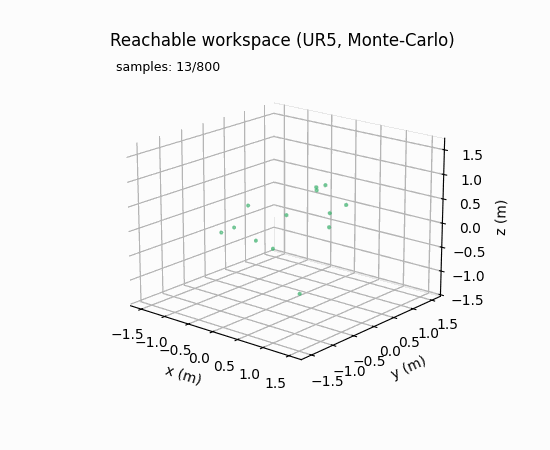
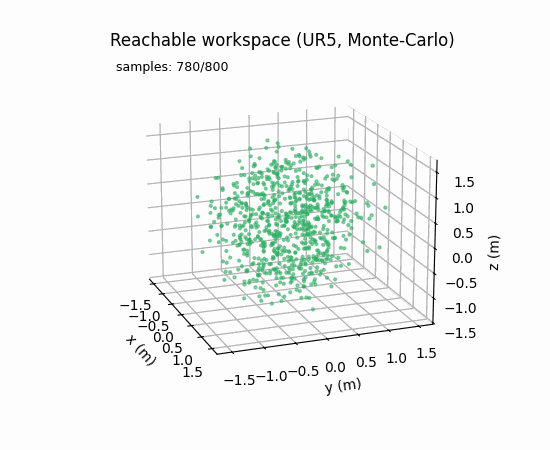
fix: use a representative workspace fallback

Changed region(s): [[0.2164, 0.2489, 0.9273, 0.8711], [0.3091, 0.1244, 0.4327, 0.1556]]

diff --git a/tests/test_docs_design.py b/tests/test_docs_design.py
@@ -131,6 +131,16 @@ def test_motion_gallery_static_fallbacks_are_valid():
             assert image.size == size
 
 
+def test_workspace_static_fallback_shows_a_populated_workspace_cloud():
+    with Image.open(DOCS / "_static" / "images" / "workspace-still.png") as image:
+        pixels = image.convert("RGB").getdata()
+    green_workspace_pixels = sum(
+        green > 130 and green > red * 1.3 and green > blue * 1.1 and red < 150
+        for red, green, blue in pixels
+    )
+    assert green_workspace_pixels > 4_000
+
+
 def test_motion_gallery_uses_wide_lead_calibrated_pair():
     source = read(INDEX)
     css = read(CSS)
